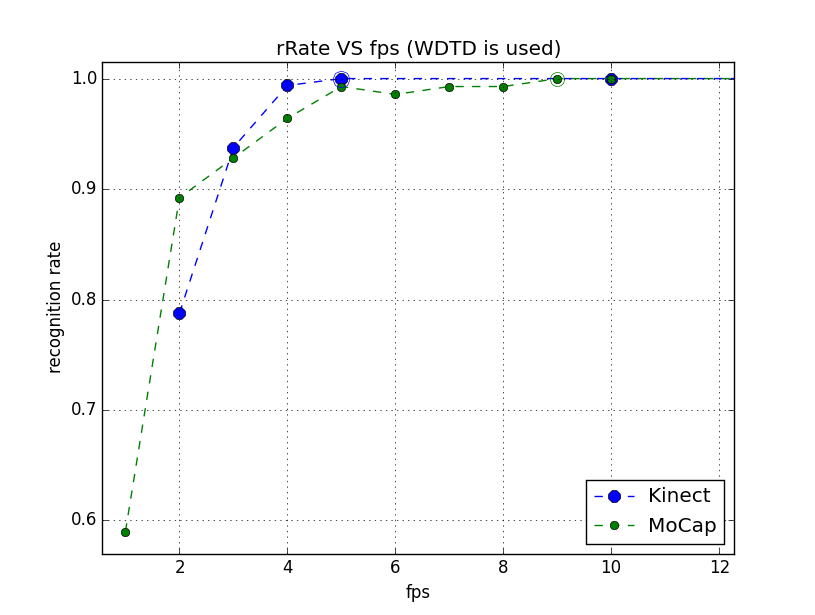
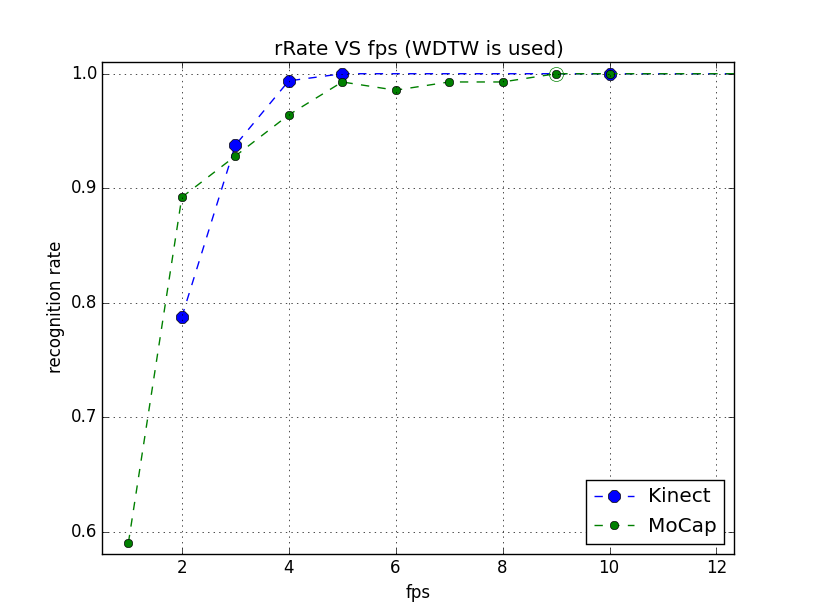
added contents

diff --git a/MOCAP/mtesting.py b/MOCAP/mtesting.py
@@ -48,6 +48,50 @@ def pick_two_min(array):
     return argMin, the_smallest, upcoming
 
 
+def probAnd(array):
+    """ 
+    :param array: (A, B) list
+    :return: P(A and B)
+    """
+    if len(array) == 1:
+        # exit
+        return array[0]
+    return probOr(array[:-1]) * array[-1]
+
+
+def probOr(array):
+    """ 
+    :param array: (A, B) list
+    :return: P(A orB)
+    """
+    if len(array) == 1:
+        # exit
+        return array[0]
+    return probOr(array[:-1]) + array[-1] - probAnd(array)
+
+
+def test_inclusion_exclusion():
+    a, b, c = 0.99, 0.99, 0.9
+    should_be = a + b + c - a*b - a*c - b*c + a*b*c
+    array = [a, b, c]
+    got = probOr(array)
+    print should_be, got
+
+
+def estimate_activation_prob(U, costs):
+    """
+    :param U: internal energy of the unknown-known gestures system
+    :param costs: energy levels
+    :return: (float) activation probability
+    """
+    costs = np.sort(costs)
+    argMin = np.argmin(costs)
+    higher_energies = np.delete(costs, argMin)
+    single_activation_prob = np.exp((costs[argMin] - higher_energies) / U)
+    activation_prob = probOr(single_activation_prob[:10])
+    return activation_prob
+
+
 def compare_them_all(fps):
     """
      TESTING func
@@ -69,23 +113,26 @@ def compare_them_all(fps):
     for tst_log in os.listdir(tst_folder):
         # print "\tComparing %s..." % tst_log
         tst_filename = os.path.join(tst_folder, tst_log)
-        unknown = HumanoidUkr(tst_filename, fps)
+        unknownGest = HumanoidUkr(tst_filename, fps)
         costs = []
         for knownGest in patterns:
-            dist = compare(knownGest, unknown, dtw_chosen=wdtw)
+            dist = compare(knownGest, unknownGest, dtw_chosen=wdtw)
             costs.append(dist)
 
-        argMin, the_smallest_cost, upcoming = pick_two_min(costs)
-        confidence.append(1. - the_smallest_cost / upcoming)
+        argMin = np.argmin(costs)
         possibleGest = patterns[argMin]
 
-        if possibleGest.name != unknown.name:
-            print "\t\tgot %s, should be %s" % (possibleGest.name, unknown.name)
-            misclassified += 1.
+        # U = unknownGest.get_internal_energy(mode="bothHands")
+        # act_prob = estimate_activation_prob(U, costs)
+        # confidence.append(1. - act_prob)
+        # print "Pact: %f" % act_prob
 
+        if possibleGest.name != unknownGest.name:
+            print "\t\tgot %s, should be %s" % (possibleGest.name, unknownGest.name)
+            misclassified += 1.
     Etest = misclassified / total_samples
     print "Etest: %g <----> (%d / %d)" % (Etest, misclassified, total_samples)
-    # print "Etest: %.2f; \t confidence: %.2f" % (Etest, np.average(confidence))
+
     return Etest, np.average(confidence)
 
 
@@ -132,4 +179,5 @@ def error_vs_fps():
 if __name__ == "__main__":
     # error_vs_fps()
     # compare_workout()
-    compare_them_all(fps=1)
+    compare_them_all(fps=5)
+    # test_inclusion_exclusion()

diff --git a/humanoid.py b/humanoid.py
@@ -9,7 +9,6 @@ import json
 
 
 # TODO set confidence measure
-# TODO formula formatting HTML
 
 
 class HumanoidBasic(object):
@@ -168,6 +167,19 @@ class HumanoidBasic(object):
                 j_std = 0
             self.joint_displace[marker] = offset
             self.joint_std[marker] = j_std
+
+    def get_internal_energy(self, mode):
+        """
+         Internal energy is computed as overall joint displacements
+         along the frames.
+        :param mode: bothHands or oneHand
+        :return: internal energy in normal units
+        """
+        self.compute_displacement(mode)
+        d = np.array(self.joint_displace.values())
+        w = np.array(self.weights.values())
+        U = np.sum(d * w) * (self.frames - 1)
+        return U
 
     def plot_displacement(self, mode, rotation, fontsize, add_error):
         """

diff --git a/gDTW.py b/gDTW.py
@@ -67,7 +67,8 @@ def wdtw(data1, data2, weights):
             cost = dist_measure(data1[:,i-1,:], data2[:,j-1,:], weights)
             D[i, j] = cost + min(D[i-1, j-1], D[i-1, j], D[i, j-1])
 
-    dist = D[-1, -1] / (r + c)
+    # dist = D[-1, -1] / (r + c)
+    dist = D[-1, -1]
 
     return dist
 

diff --git a/MOCAP/mplotter.py b/MOCAP/mplotter.py
@@ -40,7 +40,7 @@ def plot_rrate_vs_fps():
     plt.ylim(ymax=1.02)
     plt.ylabel("recognition rate")
     plt.xlabel("fps")
-    plt.title("rRate VS fps (WDTD is used)")
+    plt.title("rRate VS fps (WDTW is used)")
 
     plt.grid()
     plt.show()

diff --git a/README.md b/README.md
@@ -1,35 +1,33 @@
 <html>
 <head>
-<h3 align="center">GesturesSpeech</h3>
+<script type="text/javascript" src="http://latex.codecogs.com/latexit.js"></script>
+<h1 align="center">Sign language</h1>
 </head>
 
 <body>
 <p align="center"><i>This repo provides the instruments for both projects:
 (1) Ukrainian gestures, captured with MoCap C3D technology, and (2) basic hand motions,
-captured with Microsoft Kinect sensor.</i></p>
+captured with Microsoft Kinect sensor</i></p>
+
+<nav class="contents">
+  <h2>Contents </h2>
+  <ol>
+    <li><a href="#info">Projects info</a></li>
+	<li><a href="#art">State of art</a></li>
+	<li><a href="#preprocess">Data preprocessing</a></li>
+	<li><a href="#displacements">Body joint displacements</a></li>
+	<li><a href="#weights">Body joint weights. Discriminant ratio</a></li>
+	<li><a href="#wdtw">Weighted DTW comparison</a></li>
+	<li><a href="#tools">Tools</a></li>
+  </ol>
+</nav>
+
 
 <video controls>
   <source src="video_example.mp4" type="video/mp4">
 </video>
 
-<p>Projects kernel summary:</p>
-<table style="width:100%">
-  <tr>
-    <th>script</th>
-    <th>file info</th>
-  </tr>
-  <tr>
-    <td>humanoid</td>
-    <td>HumanoidBasic class: super class for both projects</td>
-  </tr>
-  <tr>
-    <td>gDTW</td>
-    <td>gesture weighted DTW algorithm implementation</td>
-  </tr>
-</table>
-
-
-<h6>Projects info:</h6>
+<h2 id="info">Projects info</h2>
 <ul>
   <li>MoCap (Motion Capture):
     <ul>
@@ -42,7 +40,7 @@ captured with Microsoft Kinect sensor.</i></p>
       <li>samples per gesture: 2</li>
     </ul>
   </li>
-  <li><a href="http://datascience.sehir.edu.tr/visapp2013">Kinect<a/>:</li>
+  <li><a href="http://datascience.sehir.edu.tr/visapp2013">Kinect</a>:</li>
     <ul>
       <li>covers basic hand motions</li>
       <li>file type: txt</li>
@@ -54,13 +52,42 @@ captured with Microsoft Kinect sensor.</i></p>
     </ul>
 </ul>
 
-<p>Note: the Kinect project is based on <a href="http://datascience.sehir.edu.tr/pub/VISAPP2013.pdf">this</a> paper and their <a href="http://datascience.sehir.edu.tr/visapp2013/WeightedDTW-Visapp2013-DB.rar">data</a> to compare its results with our MoCap project.</p>
+<p>Projects kernel summary:</p>
+<table style="width:100%">
+  <tr>
+    <th>script</th>
+    <th>file info</th>
+  </tr>
+  <tr>
+    <td>humanoid.py</td>
+    <td>HumanoidBasic class: super class for both projects</td>
+  </tr>
+  <tr>
+    <td>gDTW.py</td>
+    <td>gesture weighted DTW algorithm implementation</td>
+  </tr>
+  <tr>
+    <td>comparison.py</td>
+    <td>instruments for gestures comparison (uses gDTW)</td>
+  </tr>
+</table>
 
-<p>The main idea in gesture recognition is to maximize between class variance <i>Db</i> and minimize within class variance <i>Dw</i> by choosing appropriate hidden parameters (training step). For this purpose Weighted DTW algorithm has been <a href="http://datascience.sehir.edu.tr/pub/VISAPP2013.pdf">proposed</a>.</p>
+<p><b>Note</b>: the Kinect project is based on <a href="http://datascience.sehir.edu.tr/pub/VISAPP2013.pdf">this</a> paper and their <a href="http://datascience.sehir.edu.tr/visapp2013/WeightedDTW-Visapp2013-DB.rar">data</a> to compare its results with our MoCap project.</p>
+
+<h2 id="art">State of art</h2>
+<p>The main idea in gesture recognition is to maximize between class variance <span lang="latex">D_b</span> and minimize within class variance <span lang="latex">D_w</span> by choosing appropriate hidden parameters (training step). For this purpose Weighted DTW algorithm has been <a href="http://datascience.sehir.edu.tr/pub/VISAPP2013.pdf">proposed</a>.</p>
 
 <p>It's obvious, that a joint which is active in one gesture class may not be active in another gesture class. Hence weights have to be adjusted accordingly.
 As Reyes et al. (2011) has observed, only six out of the 20 joints contribute in identifying a hand gesture: left hand, right hand, left wrist, right wrist, left elbow, right elbow. For example, for the right-hand-push-up gesture, one would expect the right hand, right elbow and right wrist joints to have large weights, but to have smaller weights for the left-hand-push-up gesture. We propose to use only 3 of them, w.r.t. to the left or right hand.</p>
 
+<h2 id="preprocess">Data preprocessing</h2>
+<p>Data preprocessing for both projects includes 2 steps:</p>
+<ol>
+    <li>Subtracting the shoulder center from all joints, which accounts for cases where the user is not in the center of the depth image.</li>
+    <li>Normalizing the data with the distance between the left and the right shoulders to account for the variations due to the person's size.</li>
+</ol>
+
+<h2 id="displacements">Body joint displacements</h2>
 <p>The main difference between MoCap and Kinect projects is the number of body joints (marker) that are active during the motion. Thus, Kinect project provides only 6 hand markers while MoCap projects operates with 50 (25 x 2) hand markers. Their contribution in the motion is shown below as an average joint's displacement per frame (measured in normalized units).
 </p>
 <table style="width:100%">
@@ -77,15 +104,16 @@ As Reyes et al. (2011) has observed, only six out of the 20 joints contribute in
         </td>
     </tr>
 </table>
-<p>Data preprocessing includes 2 steps:</p>
-<ol>
-    <li>Subtracting the shoulder center from all joints, which accounts for cases where the user is not in the center of the depth image.</li>
-    <li>Normalizing the data with the distance between the left and the right shoulders to account for the variations due to the person's size.</li>
-</ol>
 
-<p>Using the total displacement values of joints, the joint <i>j</i>'s weight value of class <i>g</i> is calculated via
-<div align="center"><img src="Kinect/png/formula_weights.PNG" align="middle"/></div>
-Best beta yields the biggest discriminant ratio <i>R = Db/Dw</i>. Although within variance <i>Dw</i> goes up with decreasing the beta, the max(<i>R</i>) is obtained when beta vanishes. </p>
+<h2 id="weights">Body joint weights. Discriminant ratio</h2>
+
+<p>Using the total displacement values of joints, the joint <span lang="latex">j</span>'s weight value of class <i>g</i> is calculated via
+<div lang="latex" align="center">
+\omega_j^g = \frac{1-e^{-\beta D_j^g}}{\sum_{k}(1-e^{-\beta D_k^g})}
+</div>
+Best beta yields the biggest discriminant ratio <span lang="latex">R = \rfrac{D_b}{/D_w}</span>. In our case, although within variance <span lang="latex">D_w</span> goes up with the <span lang="latex">\beta"</span> decreasing, the <span lang="latex">R_{max}</span> is obtained when  <span lang="latex">\beta"</span> vanishes. That means,</p>
+<div lang="latex" align="center">\omega_j^g \xrightarrow{\beta \to 0} \frac{D_j^g}{\sum_{k}D_k^g}</div>
+
 <table style="width:100%">
 	<tr>
 		<th>Kinect</th>
@@ -103,6 +131,7 @@ Best beta yields the biggest discriminant ratio <i>R = Db/Dw</i>. Although withi
 
 <p>The secondary difference between the projects is that MoCap has only 1 training example and 1 testing example per unique gesture, while Kinect provides 20 training and 8 testing ones. Thus, we cannot compute the within class variance for the MoCap project -- only between class variance is availible for demonstration confidence measure (or discriminant ratio).</p>
 
+<h2 id="wdtw">Weighted DTW comparison</h2>
 <p>When all hidden parameters are calculated and all weights are set for each gesture class, it's time to use WDTW to compare some unknown sequence (from a testing set) with a known one (from a training set).</p>
 <table style="width:100%">
 	<tr>
@@ -119,17 +148,16 @@ Best beta yields the biggest discriminant ratio <i>R = Db/Dw</i>. Although withi
     </tr>
 </table>
 
-
-
 <p>Using weighted DTW algorithm with only 3 crucial (hand) body joints for Kinect project (with other weights set to zero), all testing gesture characters from the <a href="http://datascience.sehir.edu.tr/visapp2013/">database</a> are classified correctly, while simple (unweighted) DTW algorithm with the same 3 body joints yields 22.5% out-of-sample error.</p>
-<p>At the same time, in MoCap project simple DTW yields the same result (100% recognition accuracy) as the weighted one. It's because, firstly,  there is only 1 training and 1 testing example per unique gesture in MoCap project and, secondly, training and testing gestures were performed by the same skilled signer. Thus, training and testing examples are nearly identical.</p>
+<p>At the same time, MoCap's simple DTW yields the same result (100% recognition accuracy) as the weighted one. It's because, firstly,  there is only 1 training and 1 testing example per unique gesture in MoCap project and, secondly, training and testing gestures were performed by the same skilled signer. Thus, training and testing examples are nearly identical.</p>
 
-<p>Another interesting observation shows that there is no need to use the whole dense data to be able to correctly classify it. For instance, using weighted DTW, setting FPS = 10 is enough for both project data.</p>
+<h2 id="rrate">FPS dependency</h2>
+<p>Another interesting observation shows that there is no need to use the whole dense data to be able to correctly classify it. For instance, using weighted DTW, setting FPS = 10 is enough for both projects data.</p>
 <div align="center">
 	<img src="rrate_fps.png"/>
 </div>
 
-
+<h2 id="tools">Tools</h2>
 <p>Free 3D Motion Capture visualizers:</p>
 <ul>
   <li><a href="http://b-tk.googlecode.com/svn/web/mokka/index.html">Mokka</a></li>
@@ -137,12 +165,12 @@ Best beta yields the biggest discriminant ratio <i>R = Db/Dw</i>. Although withi
   <li><a href="http://www.c-motion.com/free-downloads/">Free CMO Reader</a></li>
 </ul>
 
-<p>Obligatory <a href="https://www.python.org/ftp/python/2.7/python-2.7.msi">Python 2.7</a> packages (can be found at http://www.lfd.uci.edu/~gohlke/pythonlibs/):</p>
+<p>Obligatory <a href="https://www.python.org/ftp/python/2.7/python-2.7.msi">Python 2.7</a> packages (can be found at <a href="http://www.lfd.uci.edu/~gohlke/pythonlibs">http://www.lfd.uci.edu/~gohlke/pythonlibs)</a>:</p>
 <ul>
   <li><a href="http://code.google.com/p/b-tk/downloads/detail?name=python-btk-0.3.0_win32.exe">The Biomechanical ToolKit</a>
   		to read and modify data from C3D files</li>
   <li><a href="http://sourceforge.net/projects/matplotlib/files/matplotlib/matplotlib-1.4.2/windows/matplotlib-1.4.2.win32-py2.7.exe/download">matplotlib</a> (with <b>pyparsing</b>, <b>dateutil</b>, <b>pytz</b> and <b>six</b>)</li>
-  <li><a href="http://sourceforge.net/projects/numpy/files/NumPy/1.9.1/numpy-1.9.1-win32-superpack-python2.7.exe/download"> 		numpy</a></li>
+  <li><a href="http://sourceforge.net/projects/numpy/files/NumPy/1.9.1/numpy-1.9.1-win32-superpack-python2.7.exe/download">numpy</a></li>
   <li><a href="https://pypi.python.org/pypi/dtw/1.0">dtw</a> (dynamic time warping)</li>
 </ul>
 
